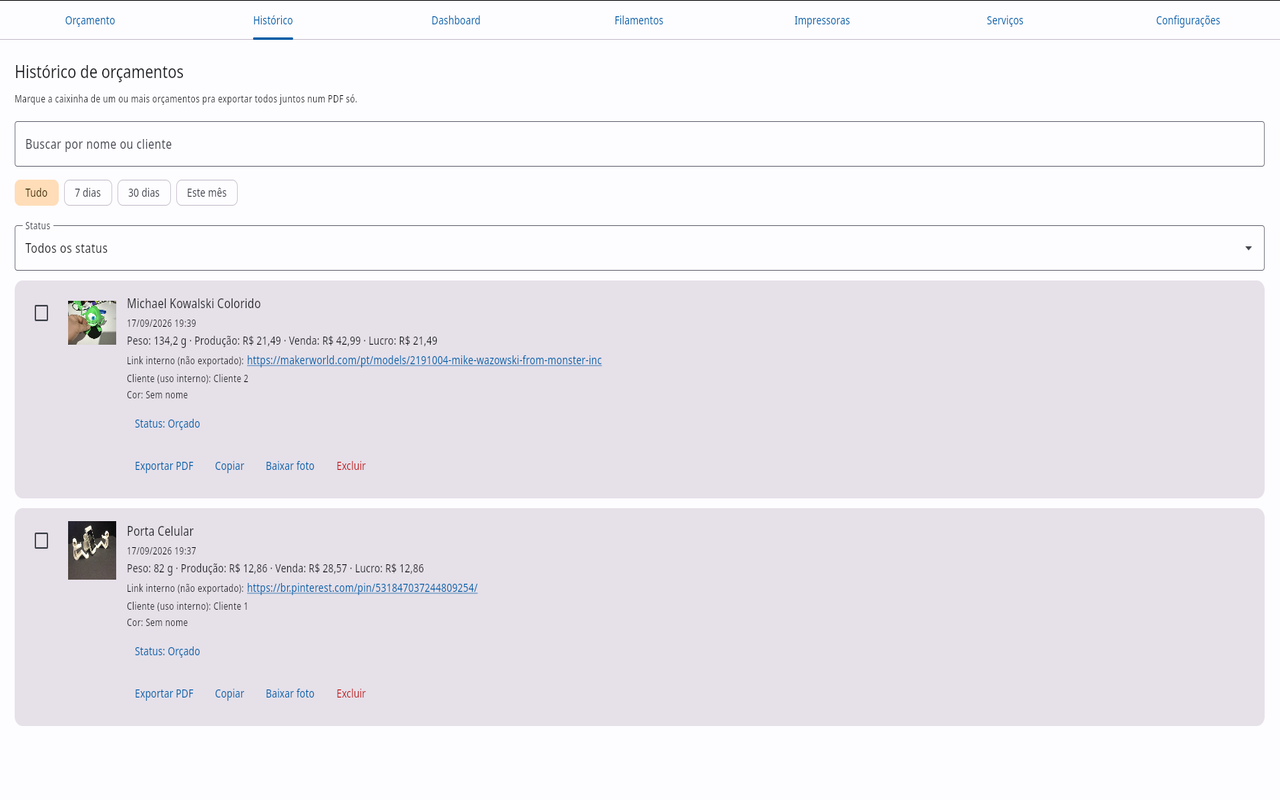
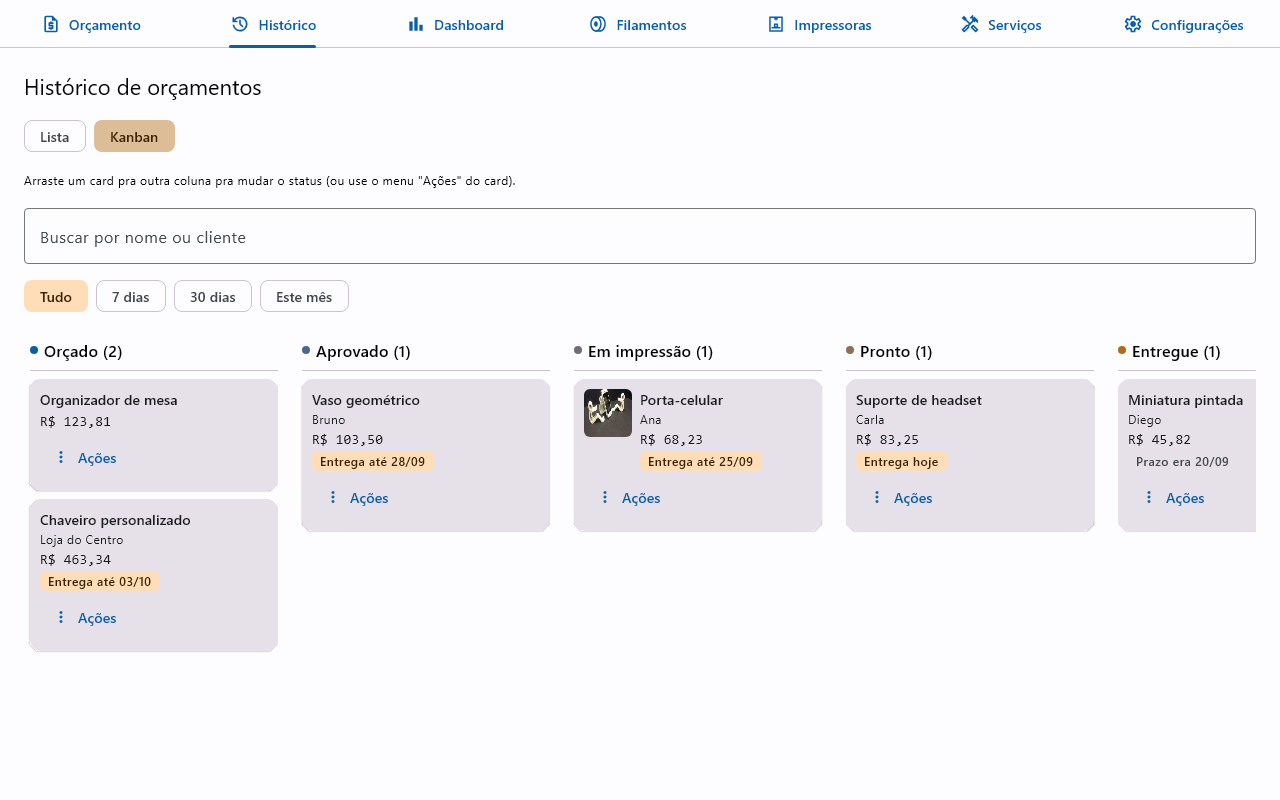
docs: reposiciona site e README como o sistema de quem vende impressão 3D
Hero do site, abertura do README e manual passam a liderar com o sistema
completo (arrastar o G-code, custo real, negociação, prazo, WhatsApp/PDF
com a marca do vendedor, Kanban) e com o app ser gratuito e 100% local.
Seção nova "100% no seu computador", funcionalidades na ordem da venda,
FAQ do G-code. SEO preservado (title, meta e JSON-LD). Prints refeitos
pelo próprio app renderizado sem janela. Registra no roadmap que a última
release publicada é a v1.11.3. Decisão 90.

diff --git a/site/index.html b/site/index.html
@@ -81,6 +81,14 @@
       },
       {
         "@type": "Question",
+        "name": "Preciso digitar o comprimento e o tempo de cada peça?",
+        "acceptedAnswer": {
+          "@type": "Answer",
+          "text": "Não. Arraste o G-code exportado pelo fatiador pra janela do app (ou use o botão de importar): comprimento de filamento, tempo de impressão, foto da peça e configurações de impressão entram sozinhos. Se o nome da impressora e o tipo de filamento do G-code baterem com o que você cadastrou, eles já vêm escolhidos também; quando só parecem, o app sugere e você confirma. Funciona com Bambu Studio, OrcaSlicer, PrusaSlicer, SuperSlicer e Cura (no Cura, só a impressora, porque ele não grava o filamento)."
+        }
+      },
+      {
+        "@type": "Question",
         "name": "Dá pra orçar mais de uma peça igual de uma vez?",
         "acceptedAnswer": {
           "@type": "Answer",
@@ -185,15 +193,15 @@
     <section class="hero">
       <div class="container">
         <div>
-          <p class="eyebrow">Orçamento e venda de impressão 3D</p>
-          <h1>Saiba quanto cobrar em cada impressão 3D, sem planilha e sem chute</h1>
+          <p class="eyebrow">O sistema de quem vende impressão 3D</p>
+          <h1>Do preço certo à peça entregue, num app só e sem mensalidade</h1>
           <p class="lead">
-            O 3DReport calcula o custo real de produção e sugere o valor de
-            venda com a margem de lucro que você definir, a partir do
-            filamento, da impressora usada e do tempo de impressão de cada
-            peça. Feito para quem vive de vender impressão 3D: do orçamento
-            ao histórico de vendas, gratuito e open source, rodando direto no
-            seu computador.
+            Arraste o G-code e o orçamento de impressão 3D se monta com o custo
+            real: filamento, energia, máquina, o seu tempo, o imposto e a taxa
+            de cada canal de venda. Mande pro cliente no WhatsApp ou em PDF com
+            a sua marca, negocie sem perder dinheiro e acompanhe cada pedido
+            até a entrega. Gratuito, open source e 100% no seu computador:
+            seus preços e seus clientes não saem da sua máquina.
           </p>
           <div class="btn-row">
             <a class="btn btn-primary" href="https://github.com/mateustoin/3DReport/releases/latest">Baixar grátis</a>
@@ -214,21 +222,21 @@
         </p>
         <div class="grid">
           <div class="screenshot">
-            <img src="assets/screenshots/orcamento.png" alt="Tela de Orçamento do 3DReport, com cálculo de valor de produção e venda" loading="lazy" onerror="this.style.display='none'; this.nextElementSibling.style.display='flex'">
+            <img src="assets/screenshots/orcamento.png" alt="Tela de Orçamento do 3DReport: entradas à esquerda e, à direita, o valor cobrado, o prazo de entrega, a composição do preço e a negociação" loading="lazy" onerror="this.style.display='none'; this.nextElementSibling.style.display='flex'">
             <div class="screenshot-placeholder">
               <strong>Tela de Orçamento</strong>
               <span>assets/screenshots/orcamento.png</span>
             </div>
           </div>
           <div class="screenshot">
-            <img src="assets/screenshots/historico.png" alt="Tela de Histórico de orçamentos do 3DReport" loading="lazy" onerror="this.style.display='none'; this.nextElementSibling.style.display='flex'">
+            <img src="assets/screenshots/historico.png" alt="Histórico do 3DReport em Kanban, com os pedidos por status e o prazo de entrega de cada um" loading="lazy" onerror="this.style.display='none'; this.nextElementSibling.style.display='flex'">
             <div class="screenshot-placeholder">
-              <strong>Histórico &amp; Dashboard</strong>
+              <strong>Histórico em Kanban</strong>
               <span>assets/screenshots/historico.png</span>
             </div>
           </div>
           <div class="screenshot">
-            <img src="assets/screenshots/pdf.png" alt="Exemplo de PDF de orçamento exportado pelo 3DReport" loading="lazy" onerror="this.style.display='none'; this.nextElementSibling.style.display='flex'">
+            <img src="assets/screenshots/pdf.png" alt="PDF de orçamento com logo e contato do vendedor, prazo de entrega em destaque e foto da peça" loading="lazy" onerror="this.style.display='none'; this.nextElementSibling.style.display='flex'">
             <div class="screenshot-placeholder">
               <strong>PDF exportado</strong>
               <span>assets/screenshots/pdf.png</span>
@@ -242,49 +250,73 @@
       <div class="container">
         <h2>Feito para quem vende impressão 3D no dia a dia</h2>
         <p class="section-intro">
-          Não é só uma calculadora: acompanha o negócio inteiro, do cadastro
-          de filamento até o PDF que vai pro cliente.
+          Não é só uma calculadora: acompanha a venda inteira, do G-code que
+          sai do fatiador até o PDF que vai pro cliente e o pedido entregue.
         </p>
         <div class="grid">
           <div class="card">
-            <h3>Cálculo de custo e preço de venda</h3>
-            <p>Considera filamento, energia, manutenção, retorno do investimento da impressora, custo fixo do negócio, o seu tempo de trabalho, reserva para falhas e margem de lucro.</p>
+            <h3>Arraste o G-code e pronto</h3>
+            <p>Solte o arquivo do fatiador na janela: comprimento, tempo, foto e configurações de impressão entram sozinhos, e a impressora e o filamento já vêm escolhidos quando batem com o que você cadastrou. Funciona com Bambu Studio, OrcaSlicer, PrusaSlicer e Cura.</p>
+          </div>
+          <div class="card">
+            <h3>O custo de verdade</h3>
+            <p>Filamento, energia, manutenção, retorno do investimento da impressora, custo fixo do negócio, o seu tempo de trabalho e reserva para falhas. Imposto do MEI ou do Simples e a taxa de cada canal (Shopee, Mercado Livre, maquininha) já entram no preço.</p>
           </div>
           <div class="card">
             <h3>Você vê pra onde vai o dinheiro</h3>
             <p>Junto do preço, uma barra mostra quanto é material, energia, máquina, seu trabalho, reserva de falha e lucro. Fica claro onde mexer quando o cliente acha caro.</p>
           </div>
           <div class="card">
-            <h3>Pronto pra mandar no WhatsApp</h3>
-            <p>Abra a conversa do cliente com o orçamento já escrito, ou gere uma imagem quadrada com foto, nome e preço pra mandar no zap e postar no status.</p>
-          </div>
-          <div class="card">
             <h3>Negociação sem perder dinheiro</h3>
-            <p>Digite o preço que o cliente propôs e veja na hora o que sobra: lucro, margem e aviso quando o valor não cobre o custo. O preço mínimo fica sempre à vista.</p>
+            <p>Digite o preço que o cliente propôs e veja na hora o que sobra: lucro, margem e aviso quando o valor não cobre o custo. O preço mínimo fica sempre à vista, e o Dashboard soma quanto de desconto você deu.</p>
           </div>
           <div class="card">
-            <h3>Várias impressoras e filamentos</h3>
-            <p>Cadastre cada impressora com seu próprio perfil e cada filamento com marca, cores e controle de estoque.</p>
+            <h3>Prazo de entrega que não se perde</h3>
+            <p>Escolha o prazo com um clique (+3, +7 ou +15 dias) vendo quanto tempo de impressão já está na fila da máquina. Ele sai em destaque pro cliente, e o app avisa quando um pedido atrasa.</p>
           </div>
           <div class="card">
-            <h3>Histórico e dashboard</h3>
-            <p>Consulte orçamentos salvos, filtre por cliente/status/período e veja total vendido, lucro e filamento mais usado.</p>
+            <h3>Pronto pra mandar no WhatsApp</h3>
+            <p>Abra a conversa do cliente com o orçamento já escrito, ou gere uma imagem quadrada com foto, preço e prazo pra mandar no zap e postar no status.</p>
           </div>
           <div class="card">
-            <h3>Exportação em PDF</h3>
-            <p>Orçamento individual, vários orçamentos num PDF só ou catálogo de peças em grade, com a sua logo, o seu contato e marca d'água personalizada.</p>
+            <h3>PDF com a sua marca</h3>
+            <p>Orçamento individual, vários num PDF só ou catálogo em grade, com a sua logo e o seu contato no cabeçalho, borda e marca d'água opcionais. Dá pra conferir como fica antes de salvar.</p>
           </div>
           <div class="card">
-            <h3>Serviços e taxas opcionais</h3>
-            <p>Pintura, lixamento e embalagem entram como serviços; Shopee, Mercado Livre, cartão ou Pix entram como canal de venda, cada um com a sua taxa; e o frete aparece como linha separada, sem embutir no preço da peça.</p>
+            <h3>Do orçado ao entregue</h3>
+            <p>Histórico com busca e filtros, Kanban por status, fila de cada impressora e Dashboard com total vendido, lucro e descontos no período.</p>
           </div>
           <div class="card">
-            <h3>Múltiplas moedas</h3>
-            <p>BRL, USD, EUR ou GBP, com o símbolo e a formatação corretos em toda a interface, no PDF e no copiar e colar.</p>
+            <h3>Catálogo que conversa com o orçamento</h3>
+            <p>Impressoras com presets das principais marcas, filamentos com marca, tipo, cores e estoque por cor, serviços como pintura e lixamento, e canais de venda com a taxa de cada um.</p>
           </div>
           <div class="card">
             <h3>Visualizador 3D e nível de dificuldade</h3>
-            <p>Anexe o STL do modelo pra girar e dar zoom nele dentro do próprio app, capturar uma foto automática do orçamento e ver um nível de dificuldade sugerido (Fácil, Médio ou Difícil) pra ajudar a precificar peças mais complexas.</p>
+            <p>Anexe o STL do modelo pra girar e dar zoom dentro do app, capturar uma foto do orçamento e ver um nível de dificuldade sugerido (Fácil, Médio ou Difícil) pra precificar peças complexas.</p>
+          </div>
+        </div>
+      </div>
+    </section>
+
+    <section id="no-seu-computador">
+      <div class="container">
+        <h2>100% no seu computador</h2>
+        <p class="section-intro">
+          Sem conta, sem mensalidade e sem internet obrigatória. Os seus preços
+          e os seus clientes são o seu negócio, e ficam só com você.
+        </p>
+        <div class="grid">
+          <div class="card">
+            <h3>Grátis de verdade</h3>
+            <p>Sem plano pago, sem versão "pro" e sem limite de orçamentos. O app é open source e vive de apoio voluntário.</p>
+          </div>
+          <div class="card">
+            <h3>Seus dados ficam com você</h3>
+            <p>Tudo fica numa pasta no seu computador. Um clique gera um backup em arquivo, pra levar pro notebook ou guardar antes de formatar.</p>
+          </div>
+          <div class="card">
+            <h3>Feito pro vendedor brasileiro</h3>
+            <p>Imposto do MEI ou do Simples, taxa da Shopee e do Mercado Livre, maquininha e Pix, WhatsApp, frete e prazo de entrega, tudo em português e em reais.</p>
           </div>
         </div>
       </div>
@@ -387,6 +419,10 @@ LUCRO             = venda − produção
         <details class="faq-item">
           <summary>O app cobra o meu tempo de trabalho?</summary>
           <p>Cobra, se você quiser. Em Configurações você informa quanto vale a sua hora e, em cada orçamento, quantos minutos aquela peça deu de trabalho: preparar o arquivo, fatiar, tirar da mesa, remover suporte, lixar, pintar, embalar. Esse é o custo que mais some da conta de quem vende impressão 3D, porque a máquina trabalha sozinha mas todo o resto é você. Enquanto você não informar o valor da sua hora, nada muda e o app continua cobrando acabamento como percentual do material, como antes.</p>
+        </details>
+        <details class="faq-item">
+          <summary>Preciso digitar o comprimento e o tempo de cada peça?</summary>
+          <p>Não. Arraste o G-code exportado pelo fatiador pra janela do app (ou use o botão de importar): comprimento de filamento, tempo de impressão, foto da peça e configurações de impressão entram sozinhos. Se o nome da impressora e o tipo de filamento do G-code baterem com o que você cadastrou, eles já vêm escolhidos também; quando só parecem, o app sugere e você confirma. Funciona com Bambu Studio, OrcaSlicer, PrusaSlicer, SuperSlicer e Cura (no Cura, só a impressora, porque ele não grava o filamento).</p>
         </details>
         <details class="faq-item">
           <summary>Dá pra orçar mais de uma peça igual de uma vez?</summary>

diff --git a/site/manual.html b/site/manual.html
@@ -41,7 +41,7 @@
       {"@type": "HowToStep", "name": "Cadastre sua impressora", "text": "Em Impressoras, informe consumo de energia, custo de manutenção por hora e o investimento da máquina."},
       {"@type": "HowToStep", "name": "Cadastre seu filamento", "text": "Em Filamentos, informe marca, preço por kg, densidade e as cores disponíveis em estoque."},
       {"@type": "HowToStep", "name": "Ajuste as configurações do negócio", "text": "Em Configurações, defina preço do kWh, valor da sua hora de trabalho, custo fixo mensal, reserva para falhas, imposto, canais de venda, custo administrativo e margem de lucro."},
-      {"@type": "HowToStep", "name": "Gere o orçamento", "text": "Na aba Orçamento, escolha o filamento e a impressora, informe o comprimento de filamento e o tempo de impressão de uma peça, e a quantidade que o cliente quer."},
+      {"@type": "HowToStep", "name": "Gere o orçamento", "text": "Arraste o G-code do fatiador pra janela (ou, na aba Orçamento, escolha o filamento e a impressora e informe o comprimento de filamento e o tempo de impressão de uma peça) e informe a quantidade que o cliente quer."},
       {"@type": "HowToStep", "name": "Salve e exporte", "text": "Salve o orçamento (com nome, foto, cliente e link do modelo opcionais) e envie ao cliente: PDF, texto copiado, conversa do WhatsApp já preenchida ou imagem quadrada pro status."},
       {"@type": "HowToStep", "name": "Acompanhe a venda até a entrega", "text": "No Histórico, atualize o status do pedido (Orçado, Aprovado, Em impressão, Pronto, Entregue) conforme a venda avança, e acompanhe o total vendido no Dashboard."}
     ]
@@ -113,7 +113,7 @@
             <div class="step-number">5</div>
             <div>
               <h3>Gere o orçamento</h3>
-              <p>Na aba <strong>Orçamento</strong>, escolha o filamento e a impressora cadastrados, informe o comprimento de filamento (em metros, direto do fatiador) e o tempo de impressão (em minutos). O app calcula o valor de produção e sugere o valor de venda com sua margem. Se você informou o valor da sua hora em Configurações, informe também quantos minutos aquela peça deu de trabalho. Para vender várias peças iguais, informe a quantidade: os números de filamento e tempo continuam sendo de uma peça, e o app multiplica, mostrando o total e o preço de cada unidade. Se o cliente propuser um valor, digite no campo de negociação: o app mostra quanto sobra e avisa se o preço não cobrir o custo. O app guarda o preço da sua tabela junto do preço fechado, e o Dashboard mostra quanto de desconto você deu no período.</p>
+              <p>O jeito mais rápido é <strong>arrastar o G-code</strong> exportado pelo fatiador pra janela do app: comprimento, tempo, foto e configurações de impressão entram sozinhos, e a impressora e o filamento já vêm escolhidos quando o nome bate com o que você cadastrou. Se preferir, na aba <strong>Orçamento</strong>, escolha o filamento e a impressora cadastrados e informe o comprimento de filamento (em metros, direto do fatiador) e o tempo de impressão (em minutos). O app calcula o valor de produção e sugere o valor de venda com sua margem. Se você informou o valor da sua hora em Configurações, informe também quantos minutos aquela peça deu de trabalho. Para vender várias peças iguais, informe a quantidade: os números de filamento e tempo continuam sendo de uma peça, e o app multiplica, mostrando o total e o preço de cada unidade. Se o cliente propuser um valor, digite no campo de negociação: o app mostra quanto sobra e avisa se o preço não cobrir o custo. O app guarda o preço da sua tabela junto do preço fechado, e o Dashboard mostra quanto de desconto você deu no período.</p>
             </div>
           </div>
           <div class="step">
@@ -145,7 +145,7 @@
           </div>
           <div class="card">
             <h3>Sua marca no PDF e templates</h3>
-            <p>Em Configurações → "Documentos pro cliente", coloque o nome da sua marca, a sua logo e o seu contato (WhatsApp, e-mail, Instagram): eles aparecem no cabeçalho do PDF, e o nome e o contato vão também na imagem quadrada. Dá pra ligar a borda da página, a marca d'água e o rodapé, e clicar em "Ver como fica" pra conferir o PDF antes de salvar. A aparência pode ser guardada como template; logo e contato continuam os mesmos ao trocar de template.</p>
+            <p>Em Configurações → "Documentos pro cliente", coloque o nome da sua marca, a sua logo e o seu contato (WhatsApp, e-mail, Instagram): eles aparecem no cabeçalho do PDF, e o nome e o contato vão também na imagem quadrada. Dá pra ligar a borda da página, a marca d'água e o rodapé, e clicar em "Ver como fica" pra conferir o PDF antes de salvar. A aparência pode ser guardada como template; logo e contato continuam os mesmos ao trocar de template. Os PDFs saem com uma linha discreta "Gerado com 3DReport" no canto, que dá pra desligar na mesma seção.</p>
           </div>
           <div class="card">
             <h3>Dashboard</h3>

diff --git a/docs/decisions.md b/docs/decisions.md
@@ -124,6 +124,7 @@ ao final, com data.
 | 87 | 2026-09-23 | Leva 7 do plano de evolução, último item: **ícones junto dos textos** (teste externo, decisão 83, que revisa a 54). **Regra:** ícone só ao lado de texto, nunca no lugar dele, decorativo pro leitor de tela (`contentDescription = null`). **Escopo decidido com o responsável do projeto:** abas, títulos de seção (Configurações e Orçamento, incluindo os subtítulos "O que o cliente vê"/"Só pra você"/"Sua marca"/"Aparência do PDF") e ações do Histórico/Kanban (botões e menu, que passou de "⋮ Ações" pra ícone + "Ações"). **Campos de formulário ficam sem ícone**, inclusive "Filamento" na tela de Orçamento, apesar de o exemplo original do pedido ser exatamente esse ("rolinho ao lado de Filamento"): o roadmap já tinha tirado campos do escopo, e o responsável confirmou. **Sem dependência nova:** os ícones genéricos são Material Symbols (Outlined, peso 400, grade 24) copiados como vetor do repositório oficial pra `ui/icons/AppIcons.kt` (`ImageVector` montado com `addPathNodes`, só na primeira vez que aparece), em vez da biblioteca de ícones do Compose; licença Apache 2.0, registrada em `THIRD-PARTY-NOTICES.md`. **Ícones do domínio desenhados pro projeto:** o "print" do Material é impressora de papel e não existe carretel pronto. A impressora é uma **caixa fechada** com bico e peça na mesa (a primeira versão, pórtico aberto, parecia uma porta). O carretel foi escolhido entre **cinco variantes renderizadas em 24 px**: de frente, com anéis concêntricos, parecia alvo ou lupa (e se confundiria com "buscar"); de lado, com as abas retas, parecia escada; ficou a vista em 3/4, com a face da frente, o furo do cubo e a borda de trás dando profundidade. **Abas:** ícone à esquerda do texto (`LeadingIconTab`) e não em cima, pra barra continuar com 48 dp; contornado nas inativas e preenchido na ativa (padrão M3). **Abaixo de 1160 dp de largura, as abas voltam a ser só texto:** com ícone, os rótulos quebravam no meio da palavra ("Orçament/o") numa janela de 900 dp, e é o ícone, que é apoio, que sai quando falta espaço. **Escolhas registradas:** Backup usa uma caixa de arquivo, **não nuvem**, porque o app é 100% local e o ícone de nuvem prometeria o contrário; WhatsApp usa um balão de conversa genérico, **não a marca**, que é de terceiros (mesmo cuidado da decisão 54 com fotos de impressora); o mesmo ícone se repete quando o assunto é o mesmo (Serviços na aba e na seção; impressora na aba e em "Comparar impressoras"), que é o que faz dele uma âncora. **Validação pendente:** o item só fecha depois do teste de reconhecimento com 3 a 5 pessoas, incluindo quem sugeriu, com a folha `docs/assets/teste-reconhecimento-icones.png` (os seis ícones mais arriscados, numerados e sem texto, em tamanho real e ampliados). Ícone não reconhecido se troca só no `AppIcons`, sem mexer em tela | Aprovada |
 | 88 | 2026-09-23 | Leva 8 do plano de evolução, item **assinatura "Gerado com 3DReport" nos PDFs** (a maior alavanca de divulgação de um projeto gratuito e sem verba, decisão 15). **Onde:** canto inferior direito, na mesma linha do rodapé, que é o espaço que a decisão 86 deixou reservado; 7 pt em cinza claro, alinhada ao fim da linha do rodapé e dentro da borda quando ela existe. O texto inteiro é um link (`PDAnnotationLink` + `PDActionURI`) **só pro site**: o Buy Me a Coffee, citado na ideia original, ficou de fora por decisão do responsável do projeto, porque pedir doação num documento que vai pro cliente do vendedor soa invasivo, e o site já tem a seção de apoio. Vale pro orçamento, pro PDF em lote e pro catálogo; **não** entra na imagem quadrada, no copiar/colar nem no WhatsApp, que são conversa, onde um link a mais seria intrusivo. **Ligada por padrão, inclusive pra quem atualiza:** `BrandingSettings.showAppSignature = true`, e como o campo falta no JSON antigo, quem atualiza recebe ligado. Pra nada mudar no documento do cliente sem o vendedor saber, quem já usava vê **um aviso único** ("Novidade nos seus PDFs", com Ver como fica / Desligar / Manter), guardado num `NoticesRepository` próprio (conjunto de identificadores de avisos já vistos, pro próximo aviso não precisar de campo nem arquivo novo). Instalação nova não vê o aviso: concluir ou pular o onboarding já o marca como visto, pra não abrir dois diálogos seguidos; a opção fica à vista em Configurações → Documentos pro cliente → Aparência do PDF, e "Ver como fica" mostra a assinatura. "Desligar" no aviso grava só essa opção a partir do que está salvo, e não do rascunho do formulário. **Não entra no template:** é preferência do app, não aparência de um documento, e trocar de template não deve religá-la. `PdfLayoutOptions.showAppSignature` nasce desligado, então quem chama o renderizador sem opções (testes, prévias antigas) recebe o PDF de sempre; quem liga é a resolução a partir de `BrandingSettings` | Aprovada |
 | 89 | 2026-09-23 | Leva 8 do plano de evolução, item **arrastar o G-code na janela e sair um orçamento completo**. **Arquivos reais primeiro** (exigência do roadmap, mesma disciplina das decisões 55 e 56): G-codes publicados em repositórios abertos, exportados por **Bambu Studio 02.03 e 02.04, OrcaSlicer 1.6.3, PrusaSlicer 2.4, SuperSlicer 2.3 e Cura 5.3.1**, com as linhas de comentário relevantes copiadas pra `RealGCodeFixtures` (origem e commit de cada um no comentário). Conferido neles: a família Prusa/Orca/Bambu grava `printer_model`, `printer_settings_id`, `filament_type`, `filament_vendor` e `filament_colour`, um valor por extrusor separado por ";"; `printer_model` às vezes é um identificador interno, até com erro de digitação ("Voron_v2_300_aferburner"), por isso `printer_settings_id` também é usado, limpo do nome de projeto que o PrusaSlicer embrulha em volta, do "- Copy" e do bico; a marca muitas vezes vem como marcador genérico ("Generic", "(Undefined)", "(Unknown)"), tratado como "sem marca"; **Cura não grava tipo nem marca de filamento** e só tem a impressora dentro do JSON de `;SETTING_3` (quebrado em várias linhas), como `machine_name` (quando o perfil mexeu no nome) ou `definition` (sempre). **Bug achado pelos arquivos reais:** o Bambu Studio 2.x grava "model printing time: ...; total estimated time: ..." numa linha só, e o parser exigia o rótulo no começo da linha — **o tempo de impressão do Bambu Studio atual não era importado**. Corrigido aceitando o rótulo no meio da linha e usando o tempo total (inclui o preparo, que também ocupa a máquina). **Casamento com os catálogos** (`core/slicer/CatalogMatcher`, função pura), com **precisão antes de alcance**, porque escolher a máquina ou o filamento errado muda o preço sem o vendedor perceber: impressora só é escolhida com nome **igual** depois de normalizar (maiúsculas, espaços, pontuação), que é como os presets do app já nomeiam (decisão 54: "Bambu Lab X1 Carbon"); nome que só contém o outro vira **sugestão na mensagem**, nunca escolha ("Bambu Lab A1" e "A1 mini" são máquinas diferentes, com consumo diferente). Filamento: tipo igual ao `materialType`, só entre os com estoque; marca conhecida precisa bater com a cadastrada (outra marca tem outro preço); com vários candidatos, mantém o já escolhido se for um deles, senão pede pra escolher; **materiais diferentes em extrusores diferentes não são reduzidos a um** e a mensagem avisa (o multimaterial de verdade é a leva 9). Cor: a cadastrada mais próxima da cor do G-code, só se for parecida (distância RGB até 100) e o G-code usar uma cor só; filamento com uma cor só em estoque dispensa a comparação. **Arrastar:** `Modifier.fileDropTarget` (expect/actual sobre o drag-and-drop do Compose Desktop) na janela inteira, com um aviso por cima enquanto um arquivo é arrastado; ao soltar, vai pra aba Orçamento e passa pelo mesmo `importGCode` do botão, que também passou a casar impressora e filamento. A mensagem de importação diz o que foi escolhido e o que não bateu (e por quê). "Desfazer importação" devolve também a impressora, o filamento e a cor anteriores. `.bgcode` (binário do PrusaSlicer), `.3mf` e arquivo que não é G-code recebem mensagem com o caminho pra resolver. **Fora:** o `.gcode.3mf` do Bambu Studio (um zip com o G-code dentro) ficou registrado no roadmap, porque nenhum exemplo público confirmou a estrutura a tempo, e a regra é não implementar formato imaginado | Aprovada |
+| 90 | 2026-09-23 | Leva 8 do plano de evolução, item **reposicionar a comunicação** de "calculadora de orçamento" pra **"o sistema de quem vende impressão 3D"**. Hero do site, abertura do README e manual passam a liderar com as duas pernas de diferenciação da revisão de 2026-09-22: **o sistema completo** (arrastar o G-code → custo real com imposto e canal → negociação → prazo → WhatsApp/PDF com a marca do vendedor → Kanban/fila/Dashboard) e **gratuito e 100% no computador** (sem conta, sem mensalidade, seus preços e clientes não saem da máquina), contra concorrentes SaaS de mensalidade. Seção nova no site, "100% no seu computador", incluindo o que é brasileiro de verdade (MEI/Simples, Shopee/Mercado Livre, maquininha/Pix, WhatsApp, R$); funcionalidades reorganizadas pela ordem da venda; FAQ nova sobre o G-code (a da assinatura veio na decisão 88). **SEO preservado de propósito:** `<title>`, meta description e JSON-LD continuam com "orçamento/preço de impressão 3D", que é o que as pessoas pesquisam; mudou o h1, o lead e a ordem das seções, não as palavras-chave. **Prints novos gerados pelo próprio app**, renderizado sem janela (`ImageComposeScene`) com dados de exemplo fictícios (e-mail em `example.com`), em vez de captura de tela manual; o PDF de exemplo reaproveita a foto real do porta-celular que já estava no print anterior. **Achado da auditoria que pesa mais que o texto:** a última release publicada é a v1.11.3, então o botão de download do site entrega uma versão sem nada do que foi feito depois; registrado no roadmap como pendência, porque publicar uma release (criar a tag e publicar o rascunho) é ação que o responsável do projeto confirma (decisão 33) | Aprovada |
 
 ## Pendentes de aprovação
 

diff --git a/README.md b/README.md
@@ -20,11 +20,12 @@
   <a href="https://mateustoin.github.io/3DReport/manual.html">Manual rápido</a>
 </p>
 
-Aplicativo **gratuito e de código aberto** para criação de **orçamentos de
-impressão 3D**. A partir do filamento usado, da impressora escolhida (cada uma
-com seu próprio perfil salvo) e dos dados da peça (comprimento em metros e
-tempo de impressão), calcula o **valor de produção** e o **valor de venda**
-com a margem de lucro desejada.
+**O sistema de quem vende impressão 3D**, gratuito, de código aberto e 100% no
+seu computador. Arraste o G-code e o **orçamento de impressão 3D** se monta com
+o custo real (filamento, energia, máquina, o seu tempo, imposto e a taxa de
+cada canal de venda); mande pro cliente no WhatsApp ou em PDF com a sua marca;
+negocie sem perder dinheiro; e acompanhe cada pedido até a entrega. Sem conta e
+sem mensalidade: seus preços e seus clientes não saem da sua máquina.
 
 ## Sumário
 
@@ -42,11 +43,12 @@ com a margem de lucro desejada.
 ## Funcionalidades
 
 <details>
-<summary>Ver lista completa (20+ prontas)</summary>
+<summary>Ver lista completa (30+ prontas)</summary>
 
 **Orçamento**
 - Cálculo de custo de produção e preço de venda (`core`)
-- Tela de orçamento — escolhe filamento + impressora, informa comprimento/tempo → produção/venda
+- Arraste o G-code pra janela e o orçamento se monta: comprimento, tempo, foto, configurações de impressão e, quando o nome bate com o cadastrado, a impressora e o filamento (Bambu Studio, OrcaSlicer, PrusaSlicer, SuperSlicer, Cura)
+- Tela de orçamento em duas colunas — entradas de um lado, o preço, a composição e a negociação do outro
 - Quantidade por orçamento, com preço unitário e preparo do pedido cobrado uma vez só (lote sai mais barato por peça)
 - Negociação: digite o preço fechado com o cliente e veja lucro, margem e aviso de prejuízo, com o preço mínimo sempre à vista, e veja no Dashboard quanto de desconto você deu no período
 - Comparação entre as suas impressoras: quanto a mesma peça custa em cada máquina
@@ -72,6 +74,7 @@ com a margem de lucro desejada.
 
 **Personalização do PDF**
 - Sua marca no PDF: logo e contato (WhatsApp, e-mail, Instagram) no cabeçalho, borda opcional, marca d'água e rodapé com o nome
+- Assinatura discreta "Gerado com 3DReport" no canto do PDF, desligável em Configurações
 - Prévia do PDF em Configurações ("Ver como fica"), antes mesmo de salvar
 - Templates — fotos salvas da aparência do PDF (marca d'água, rodapé, borda, tempo de impressão), com indicador do template ativo; logo e contato ficam de fora, pra não se perderem ao trocar de template
 

diff --git a/docs/roadmap.md b/docs/roadmap.md
@@ -449,8 +449,14 @@ layout antes disso significa redesenhar duas vezes.
   orçamento que um vendedor manda pro cliente é uma chance de outro vendedor
   conhecer o app, e é a única divulgação orgânica disponível pra um projeto
   sem verba de marketing (decisão 15).
-- [ ] **Reposicionar a comunicação: de "calculadora" pra "o sistema de quem
-  vende impressão 3D".** Site e README hoje lideram com orçamento/
+- [x] **Reposicionar a comunicação: de "calculadora" pra "o sistema de quem
+  vende impressão 3D"** (decisão 90, 2026-09-23). **Feito:** hero do site,
+  abertura do README e manual reescritos em torno do sistema completo e do
+  "100% no seu computador"; seção nova sobre isso no site; funcionalidades
+  reorganizadas pelo fluxo de venda; FAQ do G-code e da assinatura; prints
+  novos. Título, meta description e dados estruturados continuam com
+  "orçamento/preço de impressão 3D", que é o que se pesquisa. Texto
+  original: site e README hoje lideram com orçamento/
   calculadora, categoria em que existem centenas de páginas web gratuitas
   concorrendo. O que está construído já é outra coisa: histórico, clientes,
   kanban, fila de impressora, catálogos, reimpressão com a mesma
@@ -1411,6 +1417,17 @@ funciona hoje.
     banner dedicado (1200×630, nome do app + composição de telas) no lugar da
     screenshot crua, se quiser refinar mais a prévia de compartilhamento —
     ideia registrada, não crítica.
+  - **Prints refeitos (decisão 90, 2026-09-23):** os três prints estavam
+    numa versão de meses antes (sem duas colunas, canais, prazo, ícones).
+    Foram gerados de novo pelo próprio app, renderizado sem janela
+    (`ImageComposeScene`) com dados de exemplo, em vez de captura de tela
+    manual, que é o que deixa refazer rápido quando a interface mudar.
+- [ ] **Publicar uma release nova.** A última release publicada é a
+  **v1.11.3** (2026-09-21), e o botão "Baixar grátis" do site e o
+  "Download" do README levam pra ela. Tudo o que entrou depois (v1.12 a
+  v1.36, inclusive o que o site novo descreve) só chega a quem usa o app
+  depois de criar a tag e publicar o rascunho que o workflow de release
+  gera (decisão 33). Levantado na auditoria de 2026-09-23.
 
 ## 3. Instaladores desktop
 
